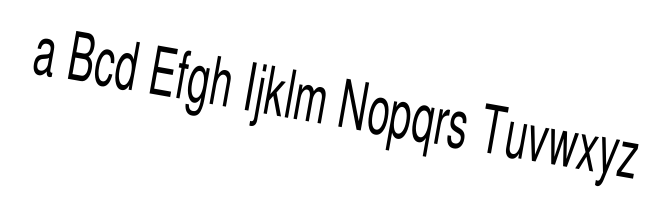
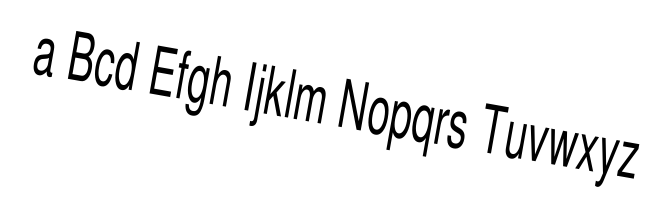
Bug 1527531 - calculate glyph subpixel positions using the precise font transform r=jrmuizel
Differential Revision: https://phabricator.services.mozilla.com/D22349

diff --git a/webrender/src/glyph_rasterizer/mod.rs b/webrender/src/glyph_rasterizer/mod.rs
@@ -652,6 +652,13 @@ impl GlyphRasterizer {
 
     pub fn prepare_font(&self, font: &mut FontInstance) {
         FontContext::prepare_font(font);
+
+        // Quantize the transform to minimize thrashing of the glyph cache, but
+        // only quantize the transform when preparing to access the glyph cache.
+        // This way, the glyph subpixel positions, which are calculated before
+        // this, can still use the precise transform which is required to match
+        // the subpixel positions computed for glyphs in the text run shader.
+        font.transform = font.transform.quantize();
     }
 
     pub fn get_glyph_dimensions(

diff --git a/webrender/src/prim_store/text_run.rs b/webrender/src/prim_store/text_run.rs
@@ -256,8 +256,7 @@ impl TextRunPrimitive {
 
         // Get the font transform matrix (skew / scale) from the complete transform.
         let font_transform = if transform_glyphs {
-            // Quantize the transform to minimize thrashing of the glyph cache.
-            FontTransform::from(transform).quantize()
+            FontTransform::from(transform)
         } else {
             FontTransform::identity()
         };
